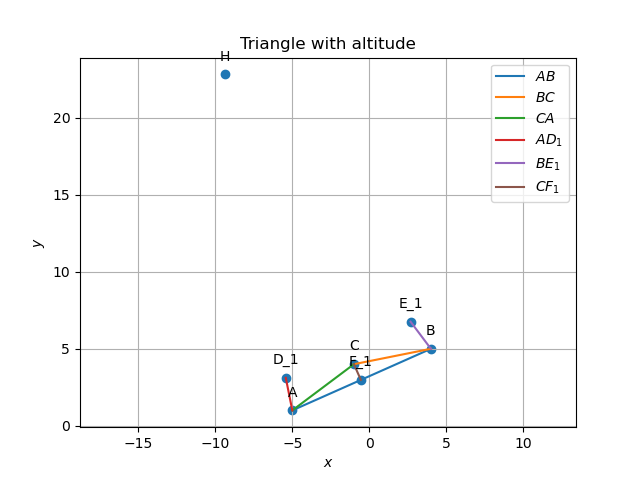
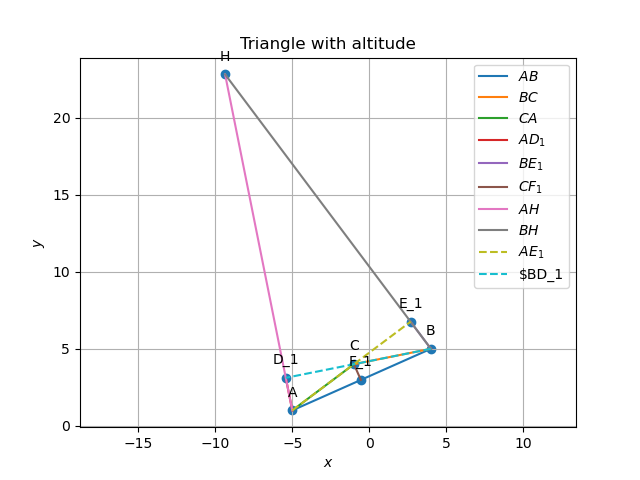
random vector

diff --git a/assignment/codes/RANDOM.py b/assignment/codes/RANDOM.py
@@ -544,15 +544,24 @@ plt.figure(2)
 x_AB = line_gen(A,B)
 x_BC = line_gen(B,C)
 x_CA = line_gen(C,A)
+x_AH = line_gen(A,H)
+x_BH = line_gen(B,H)
 x_AD_1 = line_gen(A,alt_foot(A,B,C))
 x_BE_1 = line_gen(B,alt_foot(B,A,C))
 x_CF_1 = line_gen(C,alt_foot(C,A,B))
+x_AE_1 = line_gen(A,alt_foot(B,A,C))
+x_BD_1 = line_gen(B,alt_foot(A,B,C))
+
 plt.plot(x_AB[0,:],x_AB[1,:],label='$AB$')
 plt.plot(x_BC[0,:],x_BC[1,:],label='$BC$')
 plt.plot(x_CA[0,:],x_CA[1,:],label='$CA$')
 plt.plot(x_AD_1[0,:],x_AD_1[1,:],label='$AD_1$')
 plt.plot(x_BE_1[0,:],x_BE_1[1,:],label='$BE_1$')
 plt.plot(x_CF_1[0,:],x_CF_1[1,:],label='$CF_1$')
+plt.plot(x_AH[0,:],x_AH[1,:],label='$AH$')
+plt.plot(x_BH[0,:],x_BH[1,:],label='$BH$')
+plt.plot(x_AE_1[0,:],x_AE_1[1,:],linestyle = 'dashed' ,label='$AE_1$')
+plt.plot(x_BD_1[0,:],x_BD_1[1,:],linestyle = 'dashed' ,label='$BD_1')
 tri_coords = np.block([[A],[B],[C],[alt_foot(A,B,C)],[alt_foot(B,A,C)],[alt_foot(C,A,B)],[H]])
 plt.scatter(tri_coords[:,0], tri_coords[:,1])
 vert_labels = ['A','B','C','D_1','E_1','F_1','H']
@@ -569,7 +578,7 @@ plt.grid() # minor
 plt.axis('equal')
 plt.title('Triangle with altitude')
 plt.savefig('../figs/figure_2.png')
-
+plt.show()
 
 #Plotting incircle
 plt.figure(3)

diff --git a/ncert/Prob_4.tex b/ncert/Prob_4.tex
@@ -235,6 +235,7 @@ Solution 11.16.3.4
 \begin{table}[htpb]
 \centering 
 \caption{Random Variable and probability Table}
+\label{table:1}
 \begin{tabular}{|c|c|}
 \hline
 Random independent variable	&	value	of R.V		\\
@@ -246,7 +247,7 @@ $Y$(denotes type of card)	        	&1,2,3,4		\\
 $Z$(denotes value of card chosen)		&1 \leq Z \leq 13			\\
 \hline
 \end{tabular}
-%\label{tab:ncert/11/16/3/4/r.v_probability}
+%\label{tab:Table with r.v}
 
 \end{table}
 \begin{align}
@@ -266,11 +267,11 @@ $Z$(denotes value of card chosen)		&1 \leq Z \leq 13			\\
                          \end{align} 
                  \item The probability when the card choosen is , 
  \begin{enumerate}[label=(\roman*)] 
-		 \item an ace \brak{Z=1}
+		 \item an ace 
 			 \begin{align}
 			         \pr{Z = 1} &= \frac{1}{13}.
 	                 \end{align}			 
-		 \item black card \brak{X=1}
+		 \item black card 
 			 \begin{align}
 			         \pr{X = 1} &= \frac{1}{2}.
 	                 \end{align}			 
